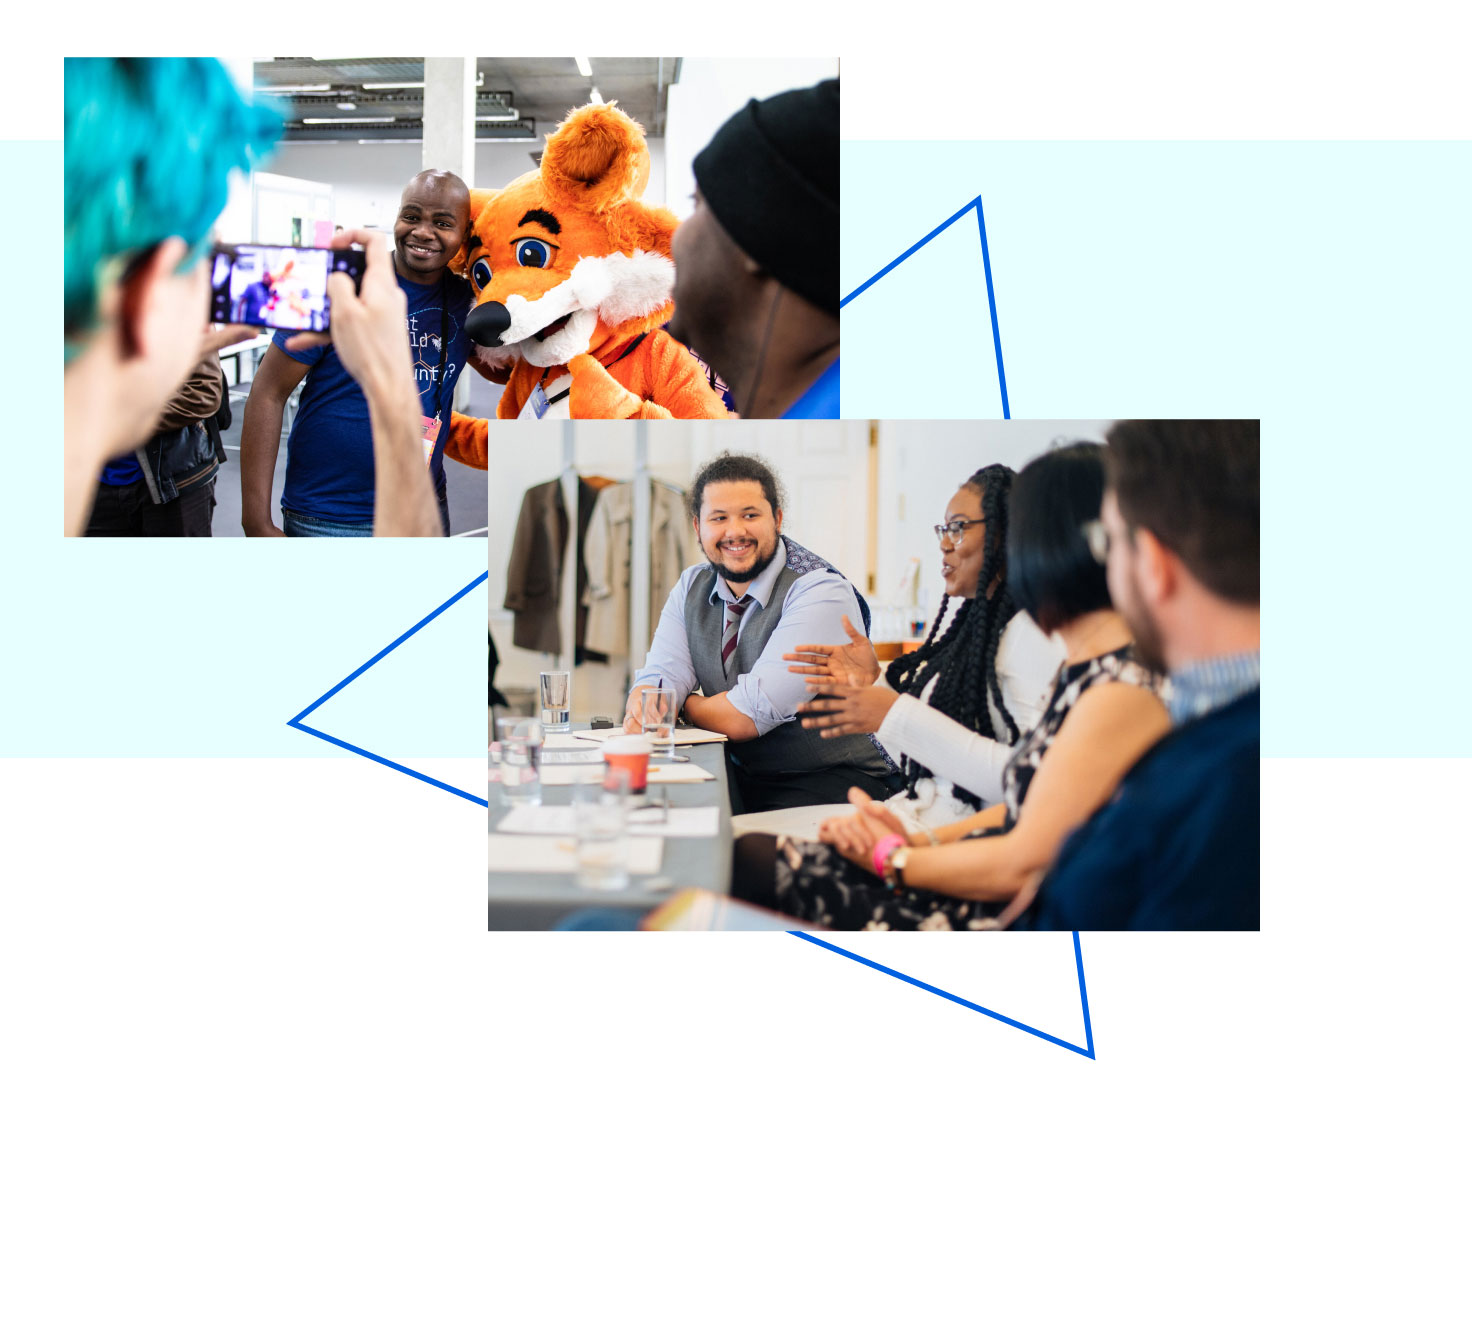
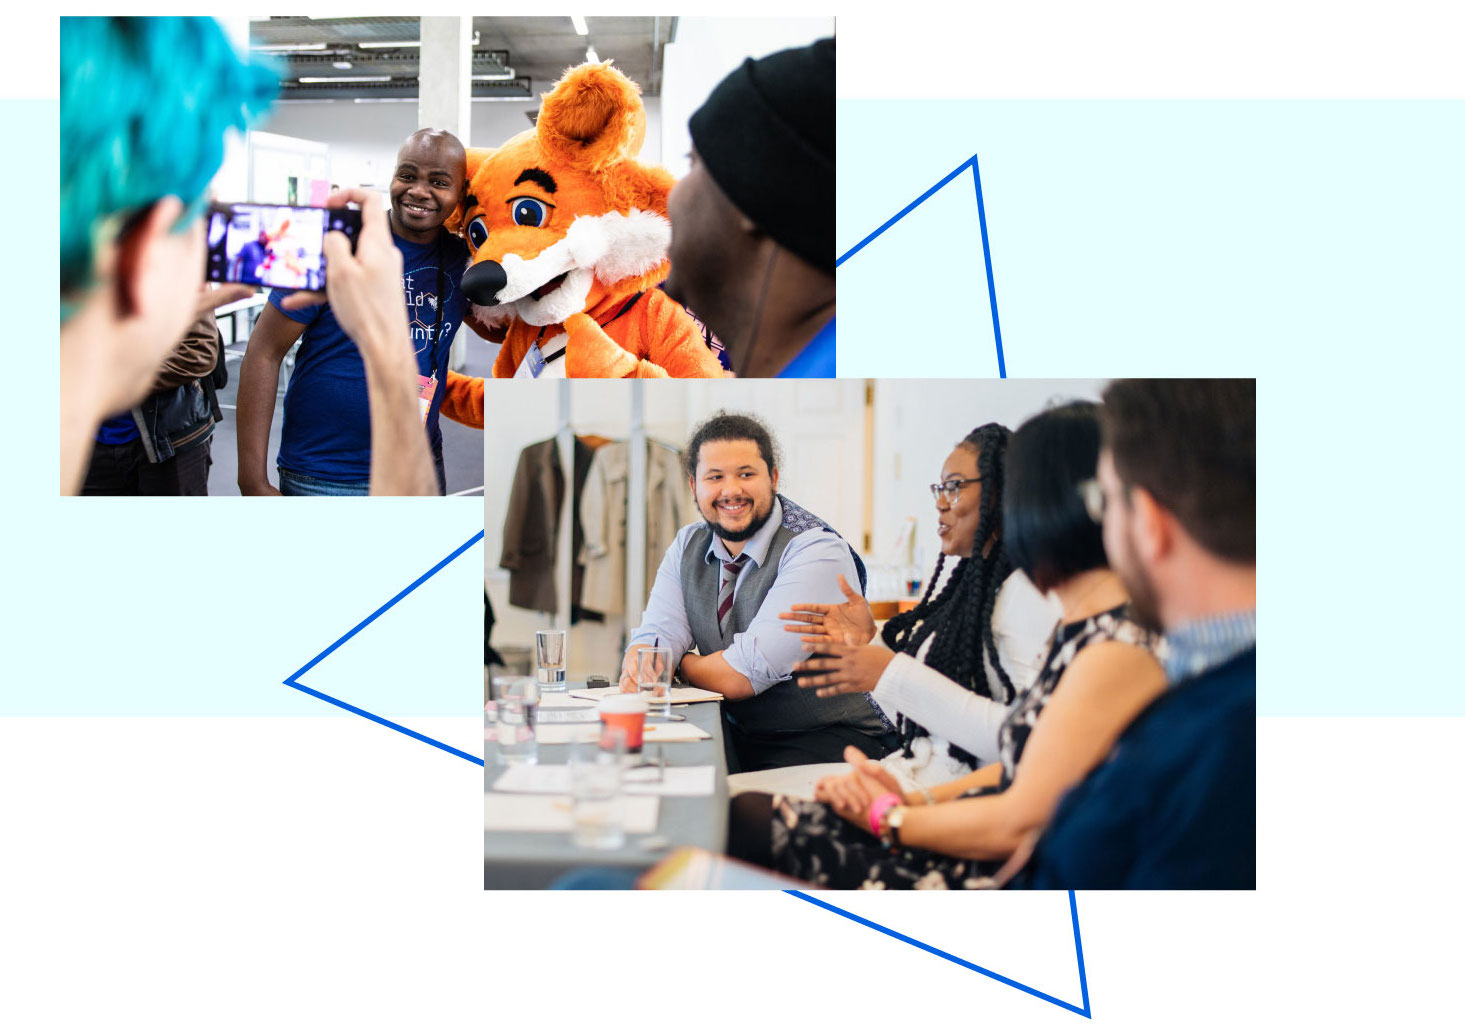
completeled mozorg/contribute and added nospace attribute to mozorg/about

diff --git a/media/css/mozorg/contribute.scss b/media/css/mozorg/contribute.scss
@@ -252,99 +252,13 @@ $image-path: '/media/protocol/img';
     }
 }
 
-// feature card container
-.contribute-feature-container {
-    position: relative;
-}
-
-.contribute-feature {
-    padding-top: 85%;
-
-    @media #{$mq-lg} {
-        padding-top: 0;
-    }
-
-    @media #{$mq-lg} {
-        margin-bottom: $layout-2xl;
-        max-width: none;
-    }
-
-    .contribute-feature-media-wrapper {
-        @include bidi(((left, 0, auto),(right, auto, 0),));
-        position: absolute;
-        top: 0;
-        width: 100%;
-
-        @media #{$mq-lg} {
-            @include bidi(((left, 50%, auto),(right, auto, 50%),));
-            width: 50%;
-        }
-
-        @media #{$mq-xl} {
-            @include bidi(((left, 45%, auto),(right, auto, 45%),));
-            width: 55%;
-        }
-    }
-
-    .contribute-feature-content {
-        position: relative;
-        z-index: 100;
-
-        h2 {
-            @include font-size(24px);
-        }
-
-        @media #{$mq-lg} {
-            width: 40%;
-
-            h2 {
-                @include font-size(48px);
-            }
-        }
-    }
-}
-
-.mzp-c-split {
-
-    @media #{$mq-lg} {
-        // padding-top: 0;
-        // padding-top: auto;
-        margin-bottom: 0;
-    }
-}
-
 .mzp-c-split-container {
     box-sizing: content-box;
-    // overflow-y: hidden;
-    position: relative;
-    max-width: $content-max;
 }
 
 .mzp-c-split-media {
-     @include bidi(((left, 0, auto),(right, auto, 0),));
-        position: absolute;
-        top: 0;
-        width: 100%;
         max-width: $content-max;
-
-        @media #{$mq-lg} {
-            @include bidi(((left, 50%, auto),(right, auto, 50%),));
-            width: 50%;
-        }
-
-        @media #{$mq-xl} {
-            @include bidi(((left, 45%, auto),(right, auto, 45%),));
-            width: 55%;
-        }
 }
-
-.mzp-c-split-media + .mzp-c-split-body {
-        margin-top: 0;
-
-        @media #{$mq-lg} {
-            // margin-top: $layout-xl;
-        }
-    }
 
 .mzp-c-split-body {
      h2 {

diff --git a/bedrock/mozorg/templates/mozorg/contribute.html b/bedrock/mozorg/templates/mozorg/contribute.html
@@ -151,33 +151,11 @@
     </div>
   </section>
 
-  <!-- old feature card -->
-  <div class="mzp-l-content contribute-feature-container">
-    <section class="contribute-feature">
-
-      <div class="mzp-c-card-feature-media contribute-feature-media-wrapper">
-        <div class="contribute-feature-media">
-          <img src="{{ static('img/contribute/contribute-madeby-feature.jpg') }}" alt="">
-        </div>
-      </div>
-
-      <div class="contribute-feature-content">
-        <div class="contribute-feature-content-container">
-          <h2>{{ ftl('contribute-made-by-heading') }}</h2>
-          <div class="contribute-feature-desc">
-            <p>{{ ftl('contribute-made-by-desc') }}</p>
-            <p>{{ ftl('contribute-made-by-desc-cont') }}</p>
-          </div>
-        </div>
-      </div>
-    </section>
-  </div>
-
-  <!-- new split -->
   {% call split(
     image_url='img/contribute/contribute-madeby-feature.jpg',
     media_after=False,
     media_class='mzp-l-split-h-center',
+    block_class='mzp-t-split-nospace'
     ) %}
       <h2>{{ ftl('contribute-made-by-heading') }}</h2>
       <p>{{ ftl('contribute-made-by-desc') }}</p>

diff --git a/bedrock/mozorg/templates/mozorg/about/index.html b/bedrock/mozorg/templates/mozorg/about/index.html
@@ -90,6 +90,7 @@
     include_highres_image=True,
     media_after=False,
     media_class='mzp-l-split-h-center',
+    block_class='mzp-t-split-nospace'
     ) %}
     <h2 class="mzp-u-title-sm">{{ ftl('about-corporation-foundation-not') }}</h2>
     <p>{{ ftl('about-mozilla-puts-people-over-profit') }}</p>

diff --git a/media/css/mozorg/about.scss b/media/css/mozorg/about.scss
@@ -77,9 +77,6 @@ $image-path: '/media/protocol/img';
 
 /* -------------------------------------------------------------------------- */
 // Foundation
-.mzp-c-split {
-    padding: 0;
-}
 
 .mzp-c-split-container {
     max-width: $content-max;
